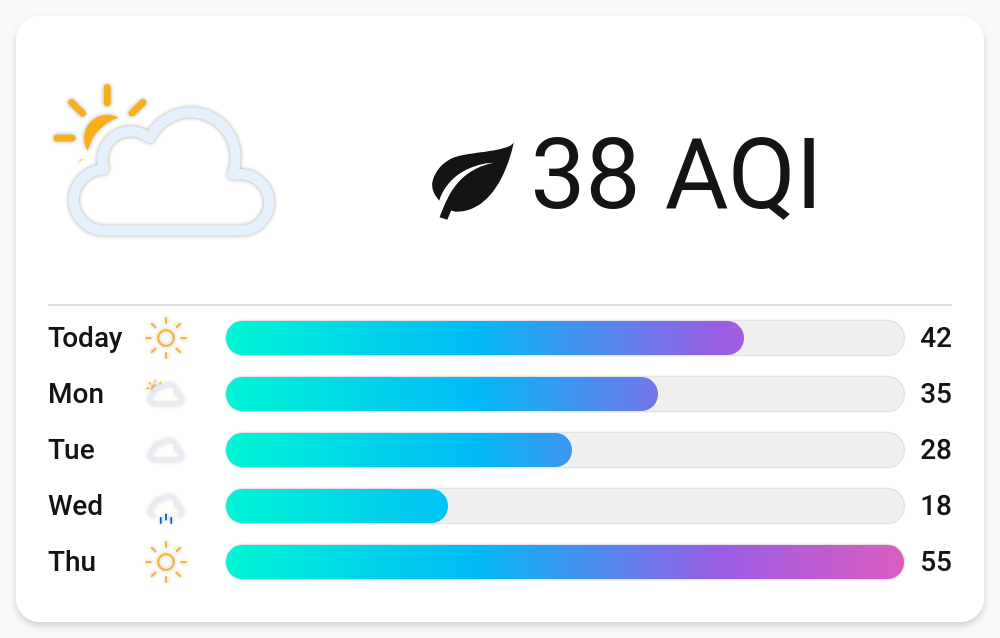
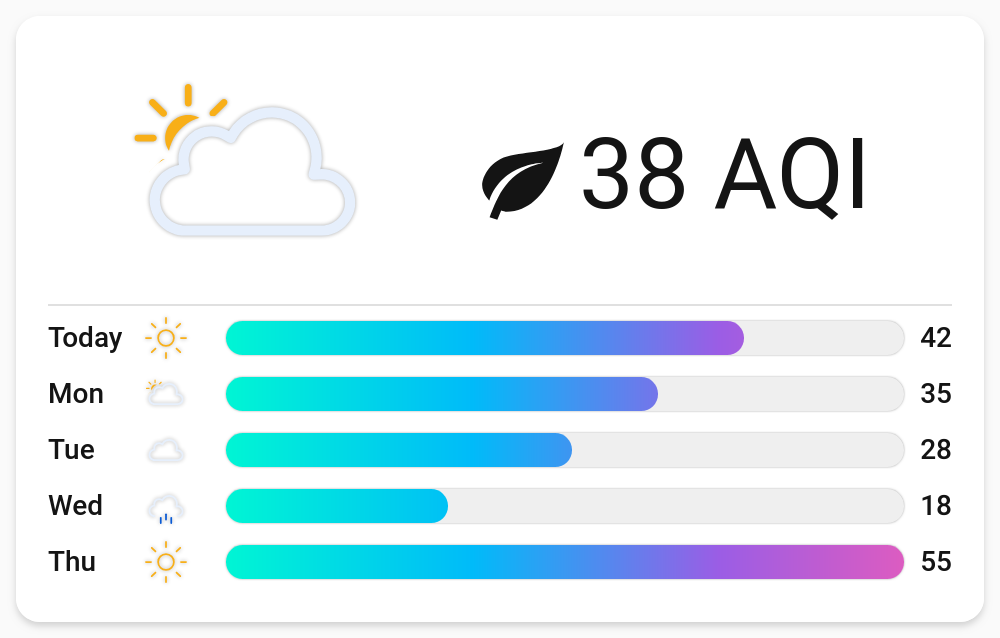
fix(header): keep the clock and temperature readable on narrow cards
On narrow cards (phones, tablet columns, larger system font sizes) the clock
and the temperature were cut off with an ellipsis.

- Size the default weather icon to at most 35% of the card width; a
  configured weather_icon_size is no longer capped.
- Spread spare header width evenly around the icon and the rows, with a
  fixed 8px gap, instead of pushing the icon to the left edge.
- Shrink the clock of the default rows with the card (min(1em, 24cqi));
  configured rows keep their font size.
- Never truncate attribute values such as the temperature; the condition
  text gives way instead.

Fixes #865

Changed region(s): [[0.031, 0.1191, 0.372, 0.3871], [0.434, 0.2085, 0.868, 0.3574]]

diff --git a/e2e/sections/header.spec.ts b/e2e/sections/header.spec.ts
@@ -35,6 +35,57 @@ test.describe('header section', () => {
     }
   })
 
+  test('spreads spare width evenly around the icon and the text', async ({ setupCard, clockWeatherCard }) => {
+    await setupCard({})
+    await clockWeatherCard.evaluate(el => { (el as HTMLElement).style.cssText = 'display: block; width: 900px' })
+    try {
+      const box = async (selector: string): Promise<{ x: number, width: number }> => (await clockWeatherCard.locator(selector)
+        .boundingBox())!
+      await expect.poll(async () => {
+        const header = await box('clock-weather-card-header')
+        const icon = await box('clock-weather-card-header > clock-weather-card-icon')
+        const details = await box('clock-weather-card-header-details')
+        const left = icon.x - header.x
+        const middle = details.x - (icon.x + icon.width) - 8
+        const right = header.x + header.width - (details.x + details.width)
+        return Math.max(Math.abs(left - middle), Math.abs(left - right))
+      })
+        .toBeLessThan(2)
+    } finally {
+      await clockWeatherCard.evaluate(el => { (el as HTMLElement).style.cssText = '' })
+    }
+  })
+
+  test('shrinks the default clock on a narrow card instead of truncating it', async ({ setupCard, clockWeatherCard }) => {
+    await setupCard({})
+    await clockWeatherCard.evaluate(el => { (el as HTMLElement).style.cssText = 'display: block; width: 220px' })
+    try {
+      const time = clockWeatherCard.locator('clock-weather-card-time-segment')
+      const rem = await clockWeatherCard.evaluate(() => parseFloat(getComputedStyle(document.documentElement).fontSize))
+      await expect.poll(() => time.evaluate(el => parseFloat(getComputedStyle(el).fontSize)))
+        .toBeLessThan(4 * rem)
+      await expect.poll(() => time.evaluate(el => el.scrollWidth <= el.clientWidth))
+        .toBe(true)
+    } finally {
+      await clockWeatherCard.evaluate(el => { (el as HTMLElement).style.cssText = '' })
+    }
+  })
+
+  test('truncates the condition rather than the temperature when the row is too narrow', async ({ setupCard, clockWeatherCard }) => {
+    await setupCard({ weather: { state: 'partlycloudy' } })
+    await clockWeatherCard.evaluate(el => { (el as HTMLElement).style.cssText = 'display: block; width: 220px' })
+    try {
+      const fits = (selector: string): Promise<boolean> => clockWeatherCard.locator(selector)
+        .evaluate(el => el.scrollWidth <= el.clientWidth)
+      await expect.poll(() => fits('clock-weather-card-weather-segment[attribute="temperature"]'))
+        .toBe(true)
+      await expect.poll(() => fits('clock-weather-card-weather-segment:not([attribute])'))
+        .toBe(false)
+    } finally {
+      await clockWeatherCard.evaluate(el => { (el as HTMLElement).style.cssText = '' })
+    }
+  })
+
   test('advances the time every second when a time segment shows seconds', async ({ page, setupCard, clockWeatherCard }) => {
     await setupCard({
       cardConfig: `

diff --git a/e2e/config-options/sections/header/weather-icon-size.spec.ts b/e2e/config-options/sections/header/weather-icon-size.spec.ts
@@ -11,7 +11,7 @@ test.describe('sections.header.weather_icon_size', () => {
         sections:
           header:
             rows:
-              - font_size: 12rem
+              - font_size: 9.5rem
                 segments:
                   - type: time
       `,
@@ -70,14 +70,33 @@ test.describe('sections.header.weather_icon_size', () => {
       .toBeLessThan(1)
   })
 
-  test('caps the icon at half the card width', async ({ setupCard, clockWeatherCard }) => {
-    await setupCard({ cardConfig: 'sections: { header: { weather_icon_size: 2000px } }' })
+  test('caps the default size at 35% of the card width', async ({ setupCard, clockWeatherCard }) => {
+    await setupCard({
+      cardConfig: `
+        sections:
+          header:
+            rows:
+              - font_size: 12rem
+                segments:
+                  - type: time
+      `,
+    })
     const header = clockWeatherCard.locator('clock-weather-card-header')
     const headerWidth = (await header.boundingBox())!.width
 
     await expect.poll(async () => Math.abs((await header.locator('clock-weather-card-icon')
-      .boundingBox())!.width - headerWidth / 2))
+      .boundingBox())!.width - headerWidth * 0.35))
       .toBeLessThan(1)
+  })
+
+  test('does not cap a configured size', async ({ setupCard, clockWeatherCard }) => {
+    await setupCard({ cardConfig: 'sections: { header: { weather_icon_size: 245px } }' })
+    const header = clockWeatherCard.locator('clock-weather-card-header')
+    const headerWidth = (await header.boundingBox())!.width
+
+    await expect.poll(async () => (await header.locator('clock-weather-card-icon')
+      .boundingBox())!.width)
+      .toBeGreaterThan(headerWidth * 0.5)
   })
 
   test('rejects values that are not a valid CSS length', async ({ setupCard, cardErrorMessage }) => {

diff --git a/src/styles.ts b/src/styles.ts
@@ -18,7 +18,10 @@ export default css`
 
   clock-weather-card-header {
     display: grid;
-    grid-template-columns: auto minmax(0, 1fr);
+    /* Spare width is spread evenly around icon and text; once it runs out, the text shrinks next to the icon. */
+    grid-template-columns: auto minmax(0, max-content);
+    justify-content: space-evenly;
+    column-gap: 8px;
     align-items: center;
     container-type: inline-size;
   }
@@ -32,7 +35,8 @@ export default css`
 
   @supports (width: 1cqi) {
     clock-weather-card-header > clock-weather-card-icon {
-      width: min(50cqi, var(--cwc-header-icon-size, max(var(--cwc-header-rows-height, 0px), 9rem)) * 96 / 98);
+      /* By default about 35% of the card at most; a configured weather_icon_size takes whatever width it needs. */
+      width: calc(var(--cwc-header-icon-size, min(35cqi * 98 / 96, max(var(--cwc-header-rows-height, 0px), 9rem))) * 96 / 98);
     }
   }
 
@@ -91,6 +95,18 @@ export default css`
     line-height: 1;
     padding-block: 0.2em;
     margin-block: -0.2em;
+  }
+
+  /* The default clock shrinks with the card: it is ~2.5em wide and the rows get 65% of the header minus the gap. */
+  @supports (width: 1cqi) {
+    clock-weather-card-header-details-row[default-rows] > clock-weather-card-time-segment {
+      font-size: min(1em, 24cqi);
+    }
+  }
+
+  /* Values such as the temperature never truncate; the condition text gives way instead. */
+  clock-weather-card-weather-segment[attribute] {
+    flex-shrink: 0;
   }
 
   clock-weather-card-icon-segment {

diff --git a/e2e/screenshots/default.spec.ts b/e2e/screenshots/default.spec.ts
@@ -5,3 +5,23 @@ test('default config', async ({ setupCard, clockWeatherCard }) => {
   await expect(clockWeatherCard)
     .toHaveScreenshot()
 })
+
+// Phones only differ by the card width and, with Android's font scaling, the root font size.
+for (const { name, fontScale } of [
+  { name: 'default config on a phone', fontScale: 1 },
+  { name: 'default config on a phone with large text', fontScale: 1.3 },
+]) {
+  test(name, async ({ page, setupCard, clockWeatherCard }) => {
+    await setupCard({})
+    const rootFontSize = await page.evaluate(() => document.documentElement.style.fontSize)
+    try {
+      await page.evaluate(scale => { document.documentElement.style.fontSize = `${16 * scale}px` }, fontScale)
+      await clockWeatherCard.evaluate(el => { (el as HTMLElement).style.cssText = 'display: block; width: 360px' })
+      await expect(clockWeatherCard)
+        .toHaveScreenshot()
+    } finally {
+      await page.evaluate(size => { document.documentElement.style.fontSize = size }, rootFontSize)
+      await clockWeatherCard.evaluate(el => { (el as HTMLElement).style.cssText = '' })
+    }
+  })
+}

diff --git a/src/components/clock-weather-card-header-details.ts b/src/components/clock-weather-card-header-details.ts
@@ -9,6 +9,7 @@ import type { DateTime } from 'luxon'
 import AbstractClockWeatherCardComponent from '@/components/abstract-clock-weather-card-components'
 import { configContext } from '@/context'
 import type { ResolvedConfig } from '@/types'
+import { DEFAULT_ROWS } from '@/utils/config'
 import { customElement } from '@/utils/custom-element'
 
 @customElement('clock-weather-card-header-details')
@@ -21,6 +22,7 @@ class ClockWeatherCardHeaderDetails extends AbstractClockWeatherCardComponent {
       .map(rowConfig => html`
         <clock-weather-card-header-details-row
           style="font-size: ${rowConfig.font_size ?? ''}; justify-content: ${rowConfig.alignment ?? ''}"
+          ?default-rows=${this.config.header.rows === DEFAULT_ROWS}
           .rowConfig=${rowConfig}
           .currentDate=${this.currentDate}
         ></clock-weather-card-header-details-row>

diff --git a/e2e/editor/editor.spec.ts b/e2e/editor/editor.spec.ts
@@ -121,9 +121,11 @@ test.describe('GUI editor', () => {
     await expect(editor.locator('[data-row="0"]')
       .getByRole('textbox', { name: 'Font size' }))
       .toHaveValue('1em')
-    await editor.locator('[data-row="1"]')
+    const clockFontSize = editor.locator('[data-row="1"]')
       .getByRole('textbox', { name: 'Font size' })
-      .fill('2rem')
+    await expect(clockFontSize)
+      .toHaveValue('4rem')
+    await clockFontSize.fill('2rem')
 
     const config = await saveEditor(page)
     expect((config.sections as { header: { rows: { font_size?: string }[] } }).header.rows[1].font_size)

diff --git a/e2e/legacy-browsers.spec.ts b/e2e/legacy-browsers.spec.ts
@@ -31,6 +31,9 @@ test.describe('legacy browser fallbacks', () => {
 
     await expect(clockWeatherCard.locator('clock-weather-card-header > clock-weather-card-icon'))
       .toHaveCSS('width', '96px')
+    const rem = await clockWeatherCard.evaluate(() => parseFloat(getComputedStyle(document.documentElement).fontSize))
+    await expect(clockWeatherCard.locator('clock-weather-card-time-segment'))
+      .toHaveCSS('font-size', `${4 * rem}px`)
     const item = clockWeatherCard.locator('clock-weather-card-forecast-list-item')
       .first()
     await expect(item.locator('.bar-track'))

diff --git a/src/components/segments/clock-weather-card-weather-segment.ts b/src/components/segments/clock-weather-card-weather-segment.ts
@@ -19,7 +19,7 @@ import { toDisplayTemperature } from '@/utils/temperature'
 class ClockWeatherCardWeatherSegment extends AbstractClockWeatherCardComponent {
   @consume({ context: hassContext, subscribe: true }) @state() private hass!: HomeAssistant
   @consume({ context: configContext, subscribe: true }) @state() private config!: ResolvedConfig
-  @property() public attribute?: string
+  @property({ reflect: true }) public attribute?: string
   @property({ type: Boolean }) public showUnit = true
   @property() public unit?: string
   @property() public unitAttribute?: string

diff --git a/README.md b/README.md
@@ -321,14 +321,14 @@ Sections render top to bottom in the order `header`, `forecast_strip`, `forecast
 
 #### `header`
 
-Renders the current-weather icon next to the configurable rows of segments (clock, date, current weather, entities, icons) at the top of the card. By default the icon is as tall as the rows, but at least `9rem`; `weather_icon_size` overrides this. The icon never grows beyond half the card width.
+Renders the current-weather icon next to the configurable rows of segments (clock, date, current weather, entities, icons) at the top of the card. By default the icon is as tall as the rows, but at least `9rem`, and takes at most about 35% of the card width. `weather_icon_size` overrides this and is not capped. Spare width is spread evenly around the icon and the rows.
 
 | Option | Type | Required | Default | Description |
 |--------|------|----------|---------|-------------|
 | `hide` | boolean | no | `false` | Hide the header section. |
 | `animated_icons` | boolean | no | `true` | Whether the large weather icon should be animated. |
 | `weather_icon_type` | `fill` \| `flat` \| `line` \| `monochrome` | no | top-level `weather_icon_type` | Visual style for the large weather icon. Falls back to the card's main `weather_icon_type` when unset. |
-| `weather_icon_size` | string | no | height of the rows, at least `9rem` | CSS length for the height of the large weather icon, capped at half the card width. Accepts `px`, `rem`, `em`, `vh`, `vw`, `%` (relative to half the card width). |
+| `weather_icon_size` | string | no | height of the rows, at least `9rem` | CSS length for the height of the large weather icon. It is not capped, so a large value leaves less width for the rows. Accepts `px`, `rem`, `em`, `vh`, `vw`, `%` (relative to half the card width). |
 | `round_temperatures` | boolean | no | top-level `round_temperatures` | When `true`, the temperatures of `weather` segments (`temperature`, `apparent_temperature`, `dew_point` and values with a `°C`/`°F` `unit_attribute`) are rounded to the nearest integer. The display precision of `additional_sensors.temperature` takes precedence when set. |
 | `rows` | list | no | See [Default Header Rows](#default-header-rows) | List of rows to display. See [Row Options](#row-options). |
 
